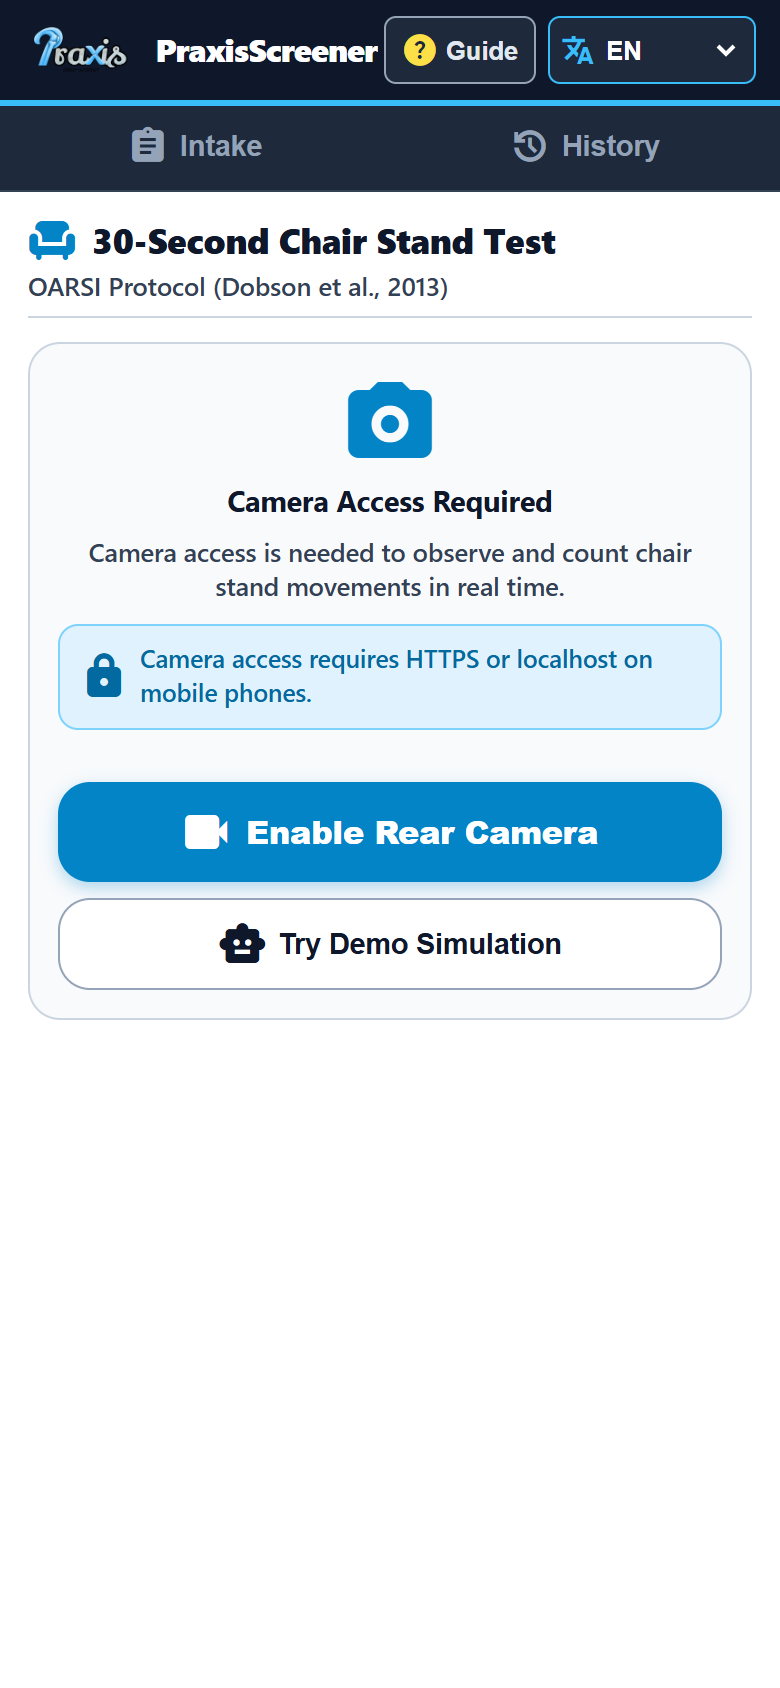
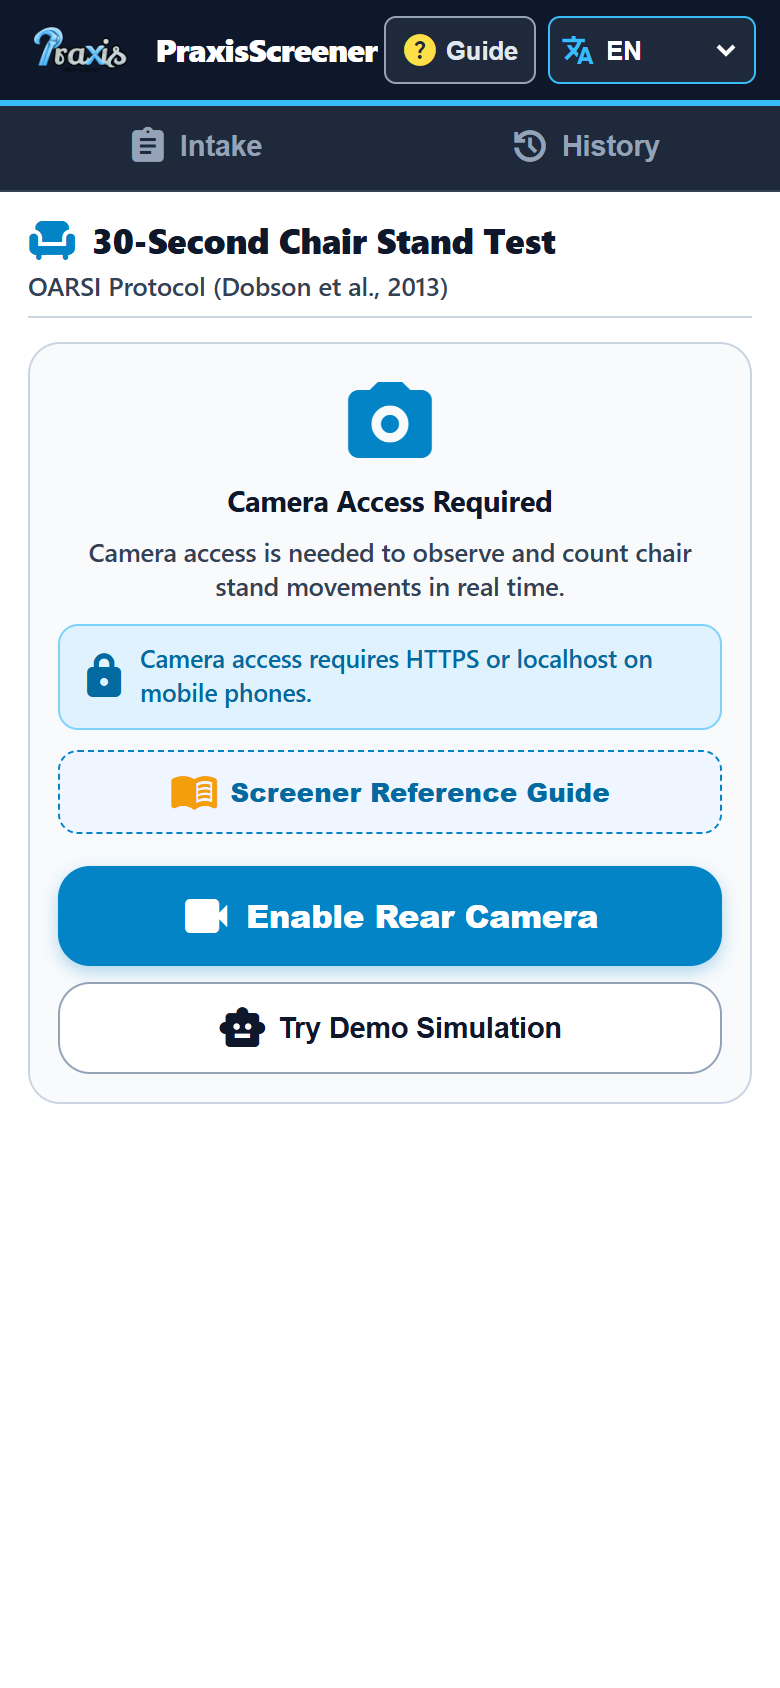
Add inline guide button to camera permission screen and update modal listeners

Changed region(s): [[0.0308, 0.4621, 0.9538, 0.6469]]

diff --git a/index.html b/index.html
@@ -208,6 +208,11 @@
           <span data-i18n="camera_https_notice">Camera access requires HTTPS or localhost on mobile phones.</span>
         </div>
 
+        <button type="button" id="btn-guide-perm" class="btn-guide-inline">
+          <span class="material-symbols-outlined" style="color: #f59e0b;">menu_book</span>
+          <span data-i18n="guide_title">Screener Reference Guide</span>
+        </button>
+
         <div class="action-bottom-container">
           <button type="button" id="btn-enable-camera" class="btn-primary">
             <span class="material-symbols-outlined">videocam</span>

diff --git a/css/style.css b/css/style.css
@@ -150,6 +150,23 @@ html, body {
   color: #fde047;
 }
 
+.btn-guide-inline {
+  background: #eff6ff;
+  border: 1.5px dashed #0284c7;
+  color: #0369a1;
+  border-radius: var(--radius-md);
+  padding: 8px 12px;
+  display: flex;
+  align-items: center;
+  justify-content: center;
+  gap: 6px;
+  font-size: 0.88rem;
+  font-weight: 800;
+  cursor: pointer;
+  width: 100%;
+  margin-top: 10px;
+}
+
 /* Language Selector */
 .lang-selector-wrapper {
   display: flex;

diff --git a/js/app.js b/js/app.js
@@ -171,6 +171,13 @@
       });
     }
 
+    const btnGuidePerm = document.getElementById('btn-guide-perm');
+    if (btnGuidePerm) {
+      btnGuidePerm.addEventListener('click', () => {
+        if (guideModal) guideModal.classList.remove('hidden');
+      });
+    }
+
     const closeGuide = () => {
       if (guideModal) guideModal.classList.add('hidden');
     };
